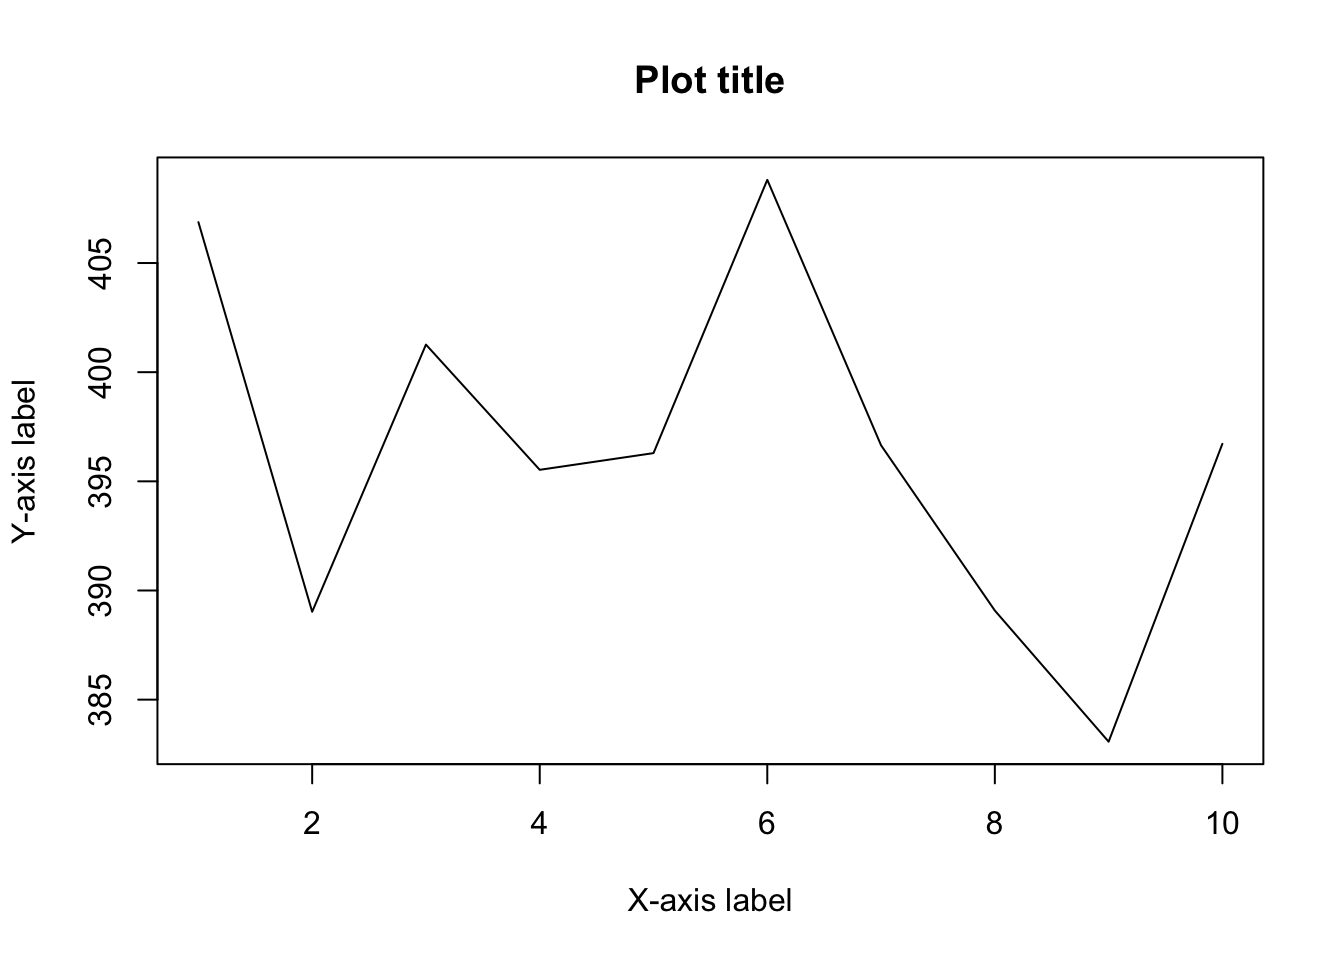
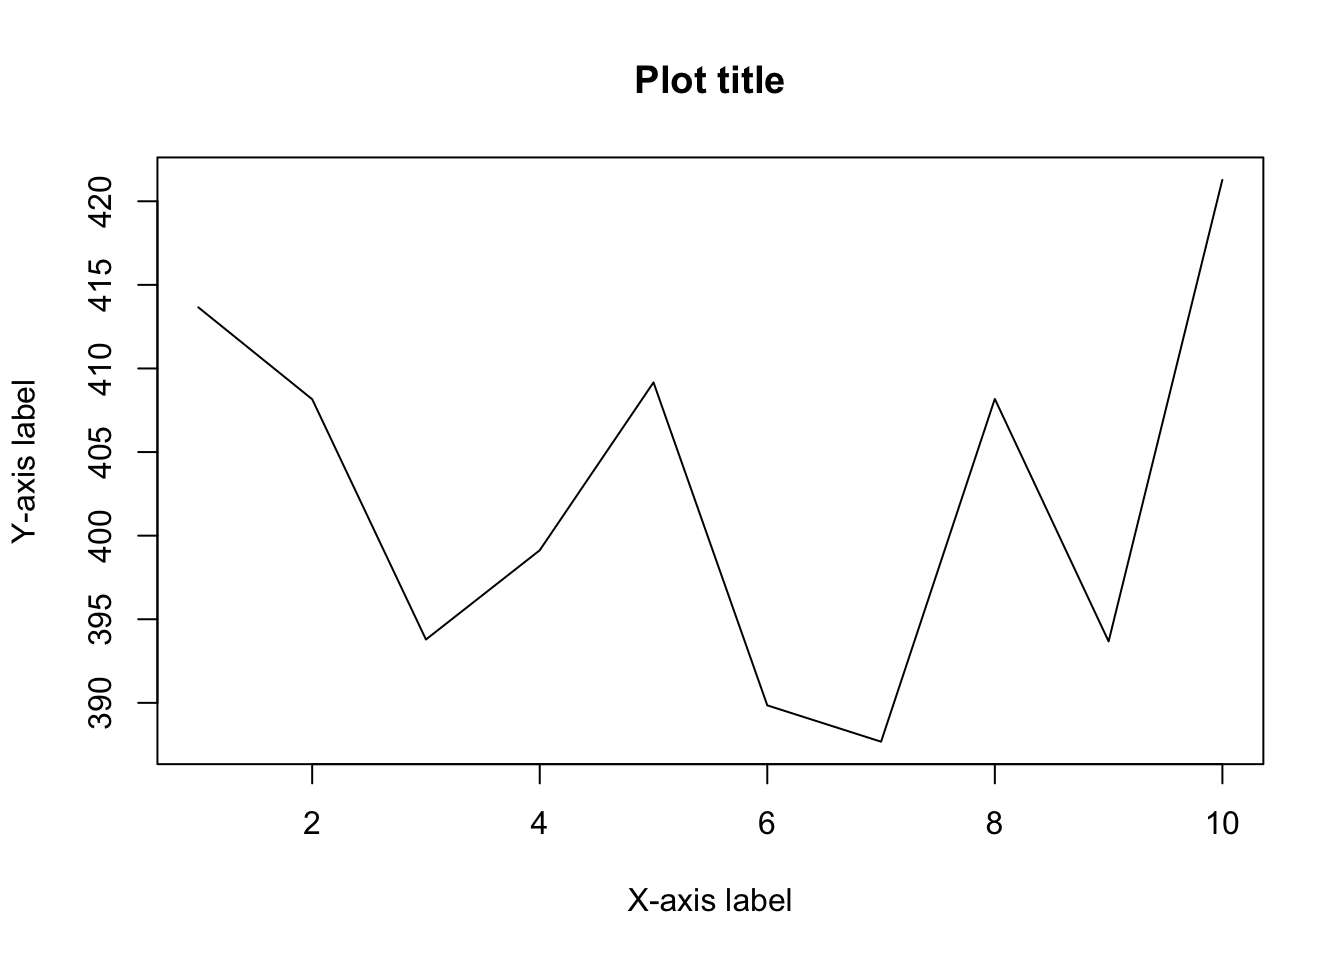
edit post

diff --git a/content/blog/how-to-install-r-and-rstudio.html b/content/blog/how-to-install-r-and-rstudio.html
@@ -186,10 +186,10 @@ my_mat2</code></pre>
 <pre class="r"><code>my_vec &lt;- rnorm(10, mean = 400, sd = 10)
 # Display only the first 5 values:
 head(my_vec, 5)</code></pre>
-<pre><code>## [1] 406.8721 389.0251 401.2633 395.5277 396.2932</code></pre>
+<pre><code>## [1] 413.6540 408.1599 393.7882 399.1259 409.1665</code></pre>
 <pre class="r"><code># Display only the last 5 values:
 tail(my_vec, 5)</code></pre>
-<pre><code>## [1] 408.8071 396.6492 389.0804 383.0740 396.7161</code></pre>
+<pre><code>## [1] 389.8505 387.6769 408.1738 393.6751 421.2777</code></pre>
 <p>You will have different values than mines due to the fact that they are randomly generated. If you want to make sure to have always the same random values, use <code>set.seed()</code> (with any numeric inside the brackets). For instance, with the following code, you should have the exact same values, no matter where and when you run it:</p>
 <pre class="r"><code>set.seed(42)
 rnorm(3, mean = 10, sd = 2)</code></pre>
@@ -209,7 +209,10 @@ rnorm(3, mean = 10, sd = 2)</code></pre>
 <p>As always, if you have a question or a suggestion related to the topic covered in this article, please add it as a comment so other readers can benefit from the discussion. If you find a mistake or bug, you can inform me by <a href="https://github.com/AntoineSoetewey/statsandr/issues" target="_blank" rel="noopener">raising an issue on GitHub</a>. For all other requests, you can contact me <a href="/contact/">here</a>.</p>
 <p>Get updates every time a new article is published by <a href="/subscribe/">subscribing to this blog</a>.</p>
 <p><strong>Related articles:</strong></p>
-<!-- <script src="//rss.bloople.net/?url=https%3A%2F%2Fwww.statsandr.com%2Ftags%2Fr%2Findex.xml&detail=-1&limit=5&showtitle=false&type=js"></script> -->
+<script src="//rss.bloople.net/?url=https%3A%2F%2Fwww.statsandr.com%2Ftags%2Fr%2Findex.xml&detail=-1&limit=5&showtitle=false&type=js" feed-item-title {
+  font-size: 6px;
+}></script>
+<p><strong>Related articlesbis:</strong></p>
 <script src="https://rssdog.com/index.php?url=https%3A%2F%2Fwww.statsandr.com%2Ftags%2Fr%2Findex.xml&mode=html&showonly=&maxitems=5&showdescs=0&desctrim=1000&descmax=0&tabwidth=100%25&linktarget=_parent&textsize=inherit&bordercol=transparent&headbgcol=transparent&headtxtcol=transparent&titlebgcol=transparent&titletxtcol=%23000000&itembgcol=transparent&itemtxtcol=transparent&ctl=0"></script>
 <p><strong>Related articles2:</strong></p>
 <iframe width="100%" frameborder="0" src="https://rssdog.com/index.php?url=https%3A%2F%2Fwww.statsandr.com%2Ftags%2Fr%2Findex.xml&amp;mode=html&amp;showonly=&amp;maxitems=5&amp;showdescs=0&amp;desctrim=1000&amp;descmax=0&amp;tabwidth=100%25&amp;linktarget=_parent&amp;textsize=inherit&amp;bordercol=transparent&amp;headbgcol=transparent&amp;headtxtcol=transparent&amp;titlebgcol=transparent&amp;titletxtcol=%23000000&amp;itembgcol=transparent&amp;itemtxtcol=transparent&amp;ctl=0">

diff --git a/public/blog/how-to-install-r-and-rstudio/index.html b/public/blog/how-to-install-r-and-rstudio/index.html
@@ -323,10 +323,10 @@ my_mat2</code></pre>
 <pre class="r"><code>my_vec &lt;- rnorm(10, mean = 400, sd = 10)
 # Display only the first 5 values:
 head(my_vec, 5)</code></pre>
-<pre><code>## [1] 406.8721 389.0251 401.2633 395.5277 396.2932</code></pre>
+<pre><code>## [1] 413.6540 408.1599 393.7882 399.1259 409.1665</code></pre>
 <pre class="r"><code># Display only the last 5 values:
 tail(my_vec, 5)</code></pre>
-<pre><code>## [1] 408.8071 396.6492 389.0804 383.0740 396.7161</code></pre>
+<pre><code>## [1] 389.8505 387.6769 408.1738 393.6751 421.2777</code></pre>
 <p>You will have different values than mines due to the fact that they are randomly generated. If you want to make sure to have always the same random values, use <code>set.seed()</code> (with any numeric inside the brackets). For instance, with the following code, you should have the exact same values, no matter where and when you run it:</p>
 <pre class="r"><code>set.seed(42)
 rnorm(3, mean = 10, sd = 2)</code></pre>
@@ -346,7 +346,10 @@ rnorm(3, mean = 10, sd = 2)</code></pre>
 <p>As always, if you have a question or a suggestion related to the topic covered in this article, please add it as a comment so other readers can benefit from the discussion. If you find a mistake or bug, you can inform me by <a href="https://github.com/AntoineSoetewey/statsandr/issues" target="_blank" rel="noopener">raising an issue on GitHub</a>. For all other requests, you can contact me <a href="/contact/">here</a>.</p>
 <p>Get updates every time a new article is published by <a href="/subscribe/">subscribing to this blog</a>.</p>
 <p><strong>Related articles:</strong></p>
-<!-- <script src="//rss.bloople.net/?url=https%3A%2F%2Fwww.statsandr.com%2Ftags%2Fr%2Findex.xml&detail=-1&limit=5&showtitle=false&type=js"></script> -->
+<script src="//rss.bloople.net/?url=https%3A%2F%2Fwww.statsandr.com%2Ftags%2Fr%2Findex.xml&detail=-1&limit=5&showtitle=false&type=js" feed-item-title {
+  font-size: 6px;
+}></script>
+<p><strong>Related articlesbis:</strong></p>
 <script src="https://rssdog.com/index.php?url=https%3A%2F%2Fwww.statsandr.com%2Ftags%2Fr%2Findex.xml&mode=html&showonly=&maxitems=5&showdescs=0&desctrim=1000&descmax=0&tabwidth=100%25&linktarget=_parent&textsize=inherit&bordercol=transparent&headbgcol=transparent&headtxtcol=transparent&titlebgcol=transparent&titletxtcol=%23000000&itembgcol=transparent&itemtxtcol=transparent&ctl=0"></script>
 <p><strong>Related articles2:</strong></p>
 <iframe width="100%" frameborder="0" src="https://rssdog.com/index.php?url=https%3A%2F%2Fwww.statsandr.com%2Ftags%2Fr%2Findex.xml&amp;mode=html&amp;showonly=&amp;maxitems=5&amp;showdescs=0&amp;desctrim=1000&amp;descmax=0&amp;tabwidth=100%25&amp;linktarget=_parent&amp;textsize=inherit&amp;bordercol=transparent&amp;headbgcol=transparent&amp;headtxtcol=transparent&amp;titlebgcol=transparent&amp;titletxtcol=%23000000&amp;itembgcol=transparent&amp;itemtxtcol=transparent&amp;ctl=0">
